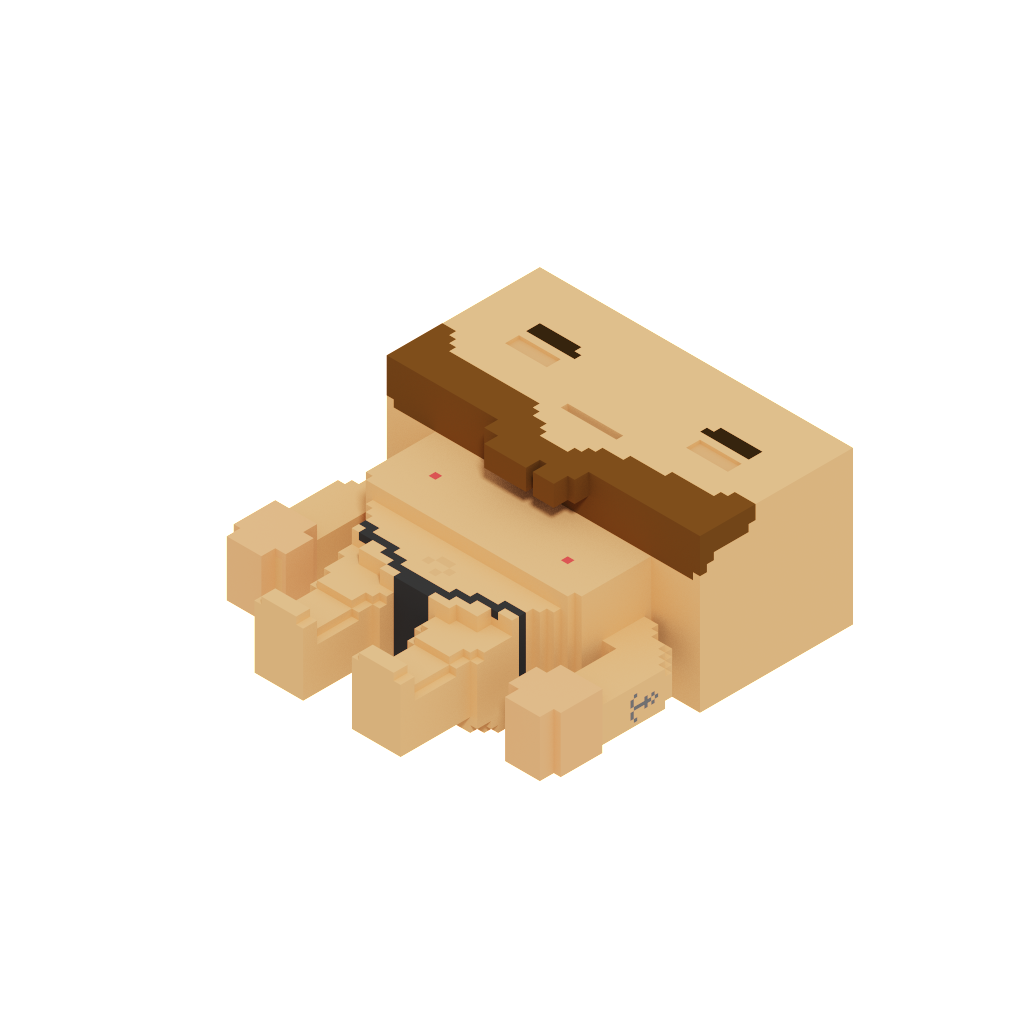
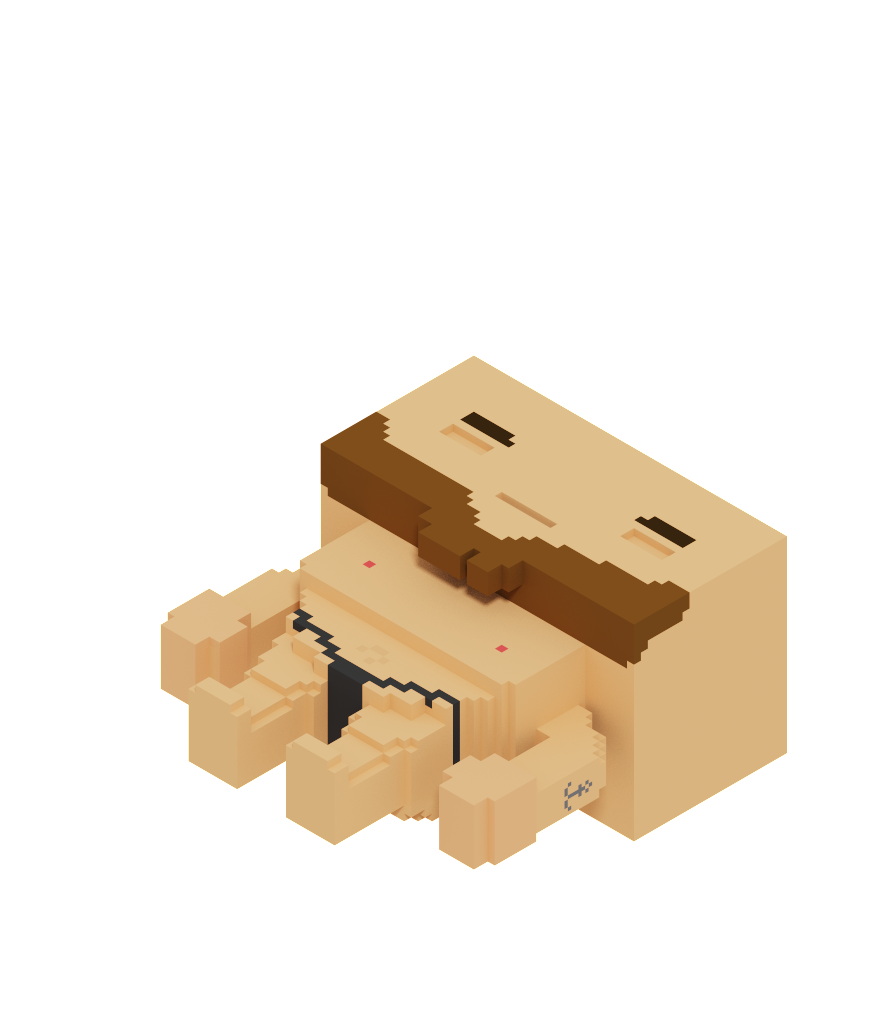
Add ability to loot destroyed bots

Changed region(s): [[0.1816, 0.25, 0.9081, 0.8438]]

diff --git a/Model/constants.h b/Model/constants.h
@@ -18,7 +18,12 @@ namespace constants {
   const int kAttackCooldown = 40;
   const double kAttackRadius = 0.65;
   const double kStartConversationRadius = 1.75;
-  const std::array<const char*, 2> kClothes{"", "roba"};
+  const std::string kPoliceClothesName{"police"};
+  const std::string kPrisonerClothesName{"roba"};
+  const std::string kEmptyClothesName{""};
+  const std::array<const char*, 3> kClothes{kEmptyClothesName.c_str(),
+                                            kPrisonerClothesName.c_str(),
+                                            kPoliceClothesName.c_str()};
   const double kDoorOpenOffset = -0.4;
   const int kSpawnX = 3;
   const int kSpawnY = 3;

diff --git a/GameObject/bot.cpp b/GameObject/bot.cpp
@@ -8,6 +8,17 @@ Bot::Bot(const QString& name, const Point& coords) :
 void Bot::Tick(int current_tick) {
   Creature::Tick(current_tick);
   MakeStep();
+
+  clothes_name_ = "";
+  for (const auto& item : storage_->GetItems()) {
+    if (item.GetType() == Item::Type::kPrisonerRoba) {
+      clothes_name_ = constants::kPrisonerClothesName;
+      break;
+    } else if (item.GetType() == Item::Type::kPoliceRoba) {
+      clothes_name_ = constants::kPoliceClothesName;
+      break;
+    }
+  }
 }
 
 void Bot::MakeStep() {

diff --git a/GameObject/hero.cpp b/GameObject/hero.cpp
@@ -6,21 +6,6 @@ Hero::Hero(const Point& coords)
 
 void Hero::Tick(int current_tick) {
   Creature::Tick(current_tick);
-
-  // Temp code.
-  // TODO: In the future, there will be separate cell in inventory for clothes.
-  bool is_roba = false;
-  for (const auto& item : storage_->GetItems()) {
-    if (item.GetName() == "roba") {
-      is_roba = true;
-      break;
-    }
-  }
-  if (is_roba) {
-    clothes_name_ = "roba";
-  } else {
-    clothes_name_ = "";
-  }
 }
 
 Point Hero::GetViewVector() const {

diff --git a/GameObject/item.h b/GameObject/item.h
@@ -13,7 +13,9 @@ class Item {
   enum class Type {
     kApple,
     kBrick,
-    kSoap
+    kSoap,
+    kPrisonerRoba,
+    kPoliceRoba
   };
 
   Item(Type type, const QString& name, const std::weak_ptr<QPixmap>& image);
